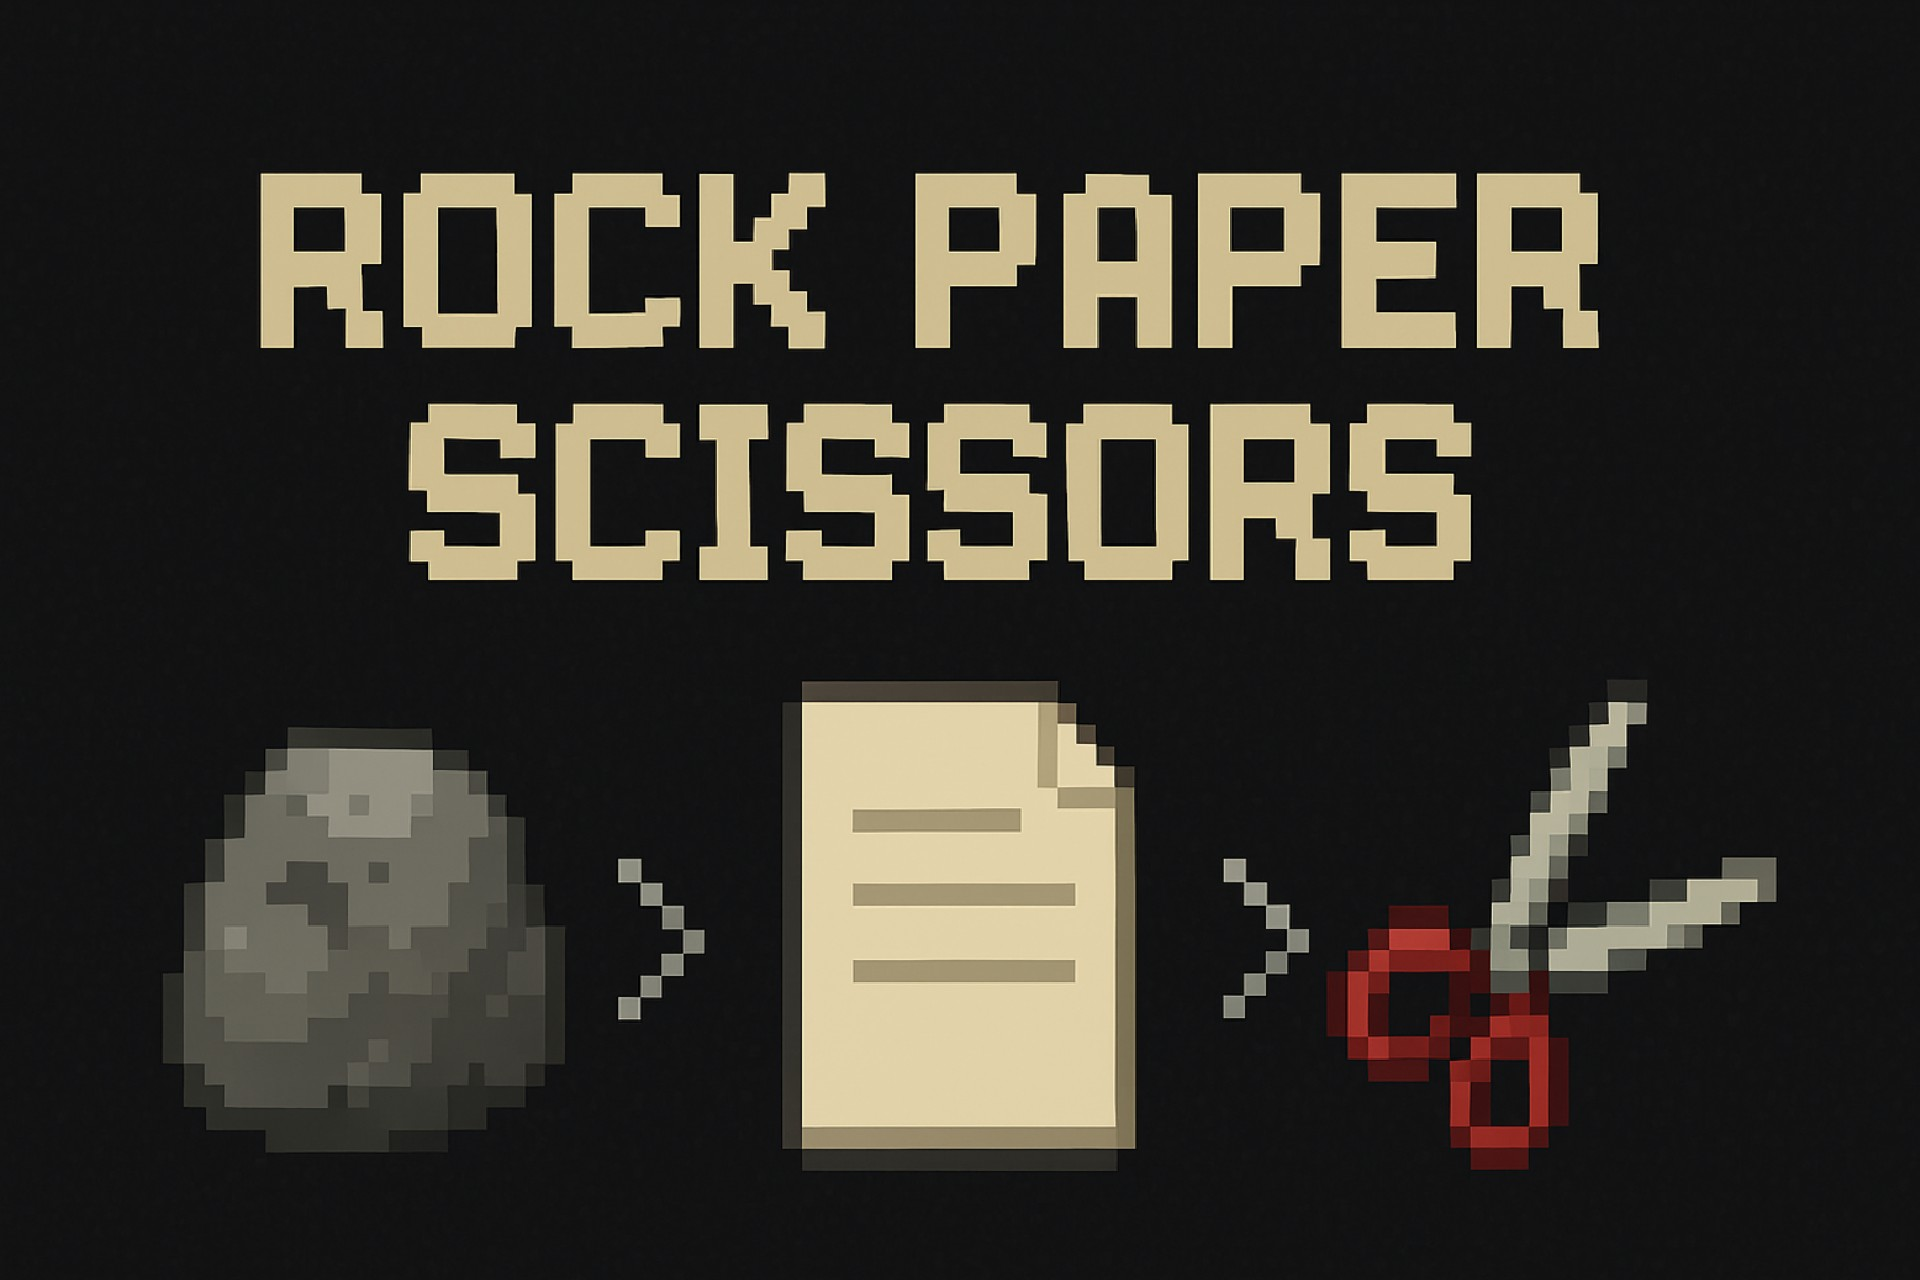
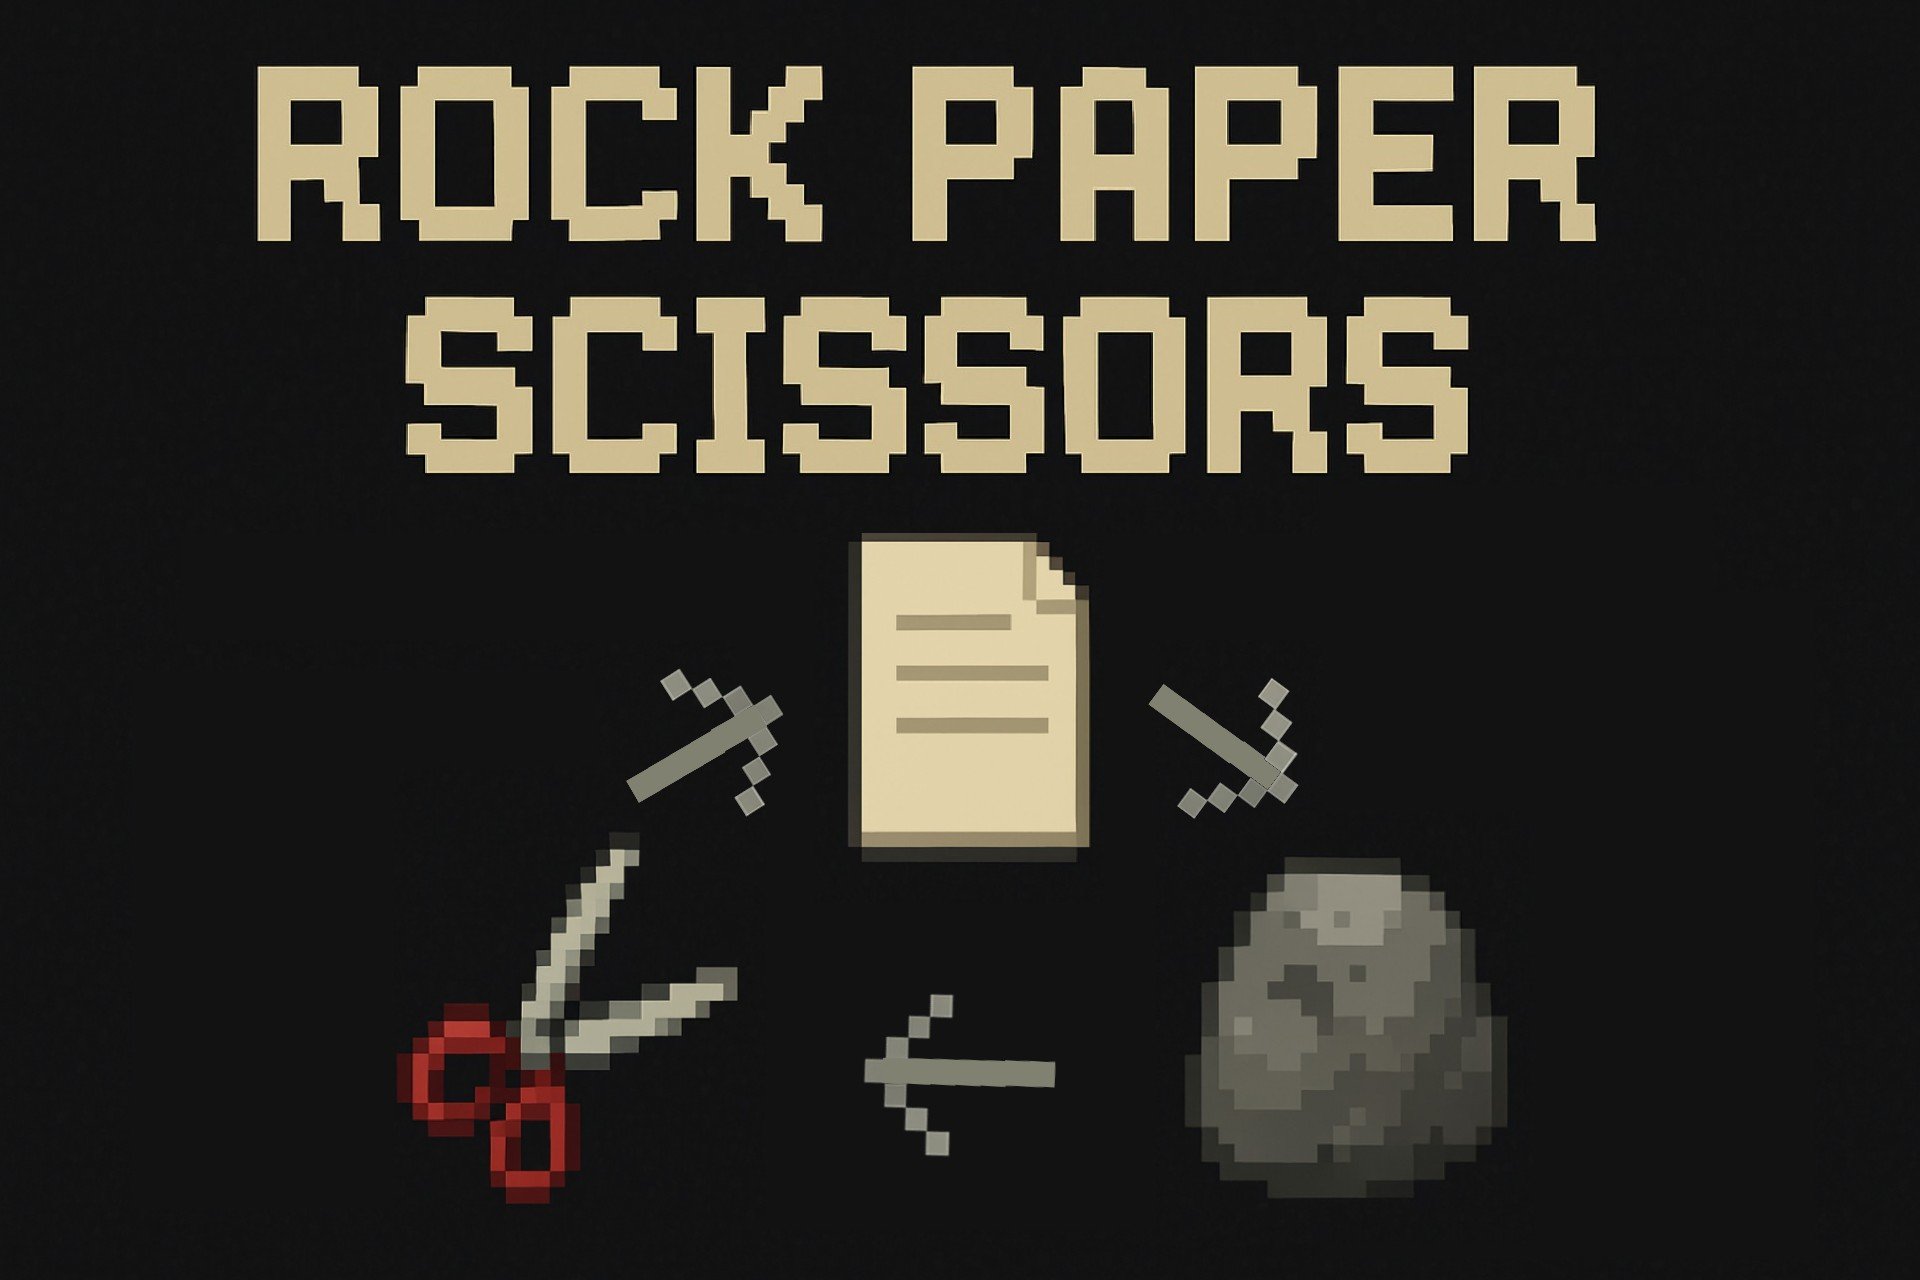
Bkg changes.

diff --git a/src/views/BoardView.ts b/src/views/BoardView.ts
@@ -1,18 +1,20 @@
 import { lego } from '@armathai/lego';
 import Matter from 'matter-js';
-import { Container, IPointData, Rectangle, Texture } from 'pixi.js';
+import { Container, Graphics, IPointData, Rectangle, Texture } from 'pixi.js';
 import { GAME_CONFIG, getBodyConfig, wallBodyConfig, winningCombos } from '../configs/constants';
 import { MainGameEvents } from '../events/MainEvents';
 import { BoardModelEvents, GameModelEvents, ItemModelEvents } from '../events/ModelEvents';
 import { GameState } from '../models/GameModel';
 import { ItemModel, ItemType } from '../models/ItemModel';
-import { delayRunnable } from '../Utils';
+import { delayRunnable, drawBounds, hide, show } from '../Utils';
 import { ItemView } from './ItemView';
 
 export class BoardView extends Container {
     private items: ItemView[] = [];
     private bodyToSprite: Map<any, ItemView> = new Map();
     private gameState: GameState = GameState.Unknown;
+
+    private boundsGr = new Graphics();
 
     constructor() {
         super();
@@ -22,6 +24,9 @@ export class BoardView extends Container {
             .on(GameModelEvents.StateUpdate, this.onGameStateUpdate, this)
             .on(BoardModelEvents.ItemsUpdate, this.onItemsUpdate, this);
         this.build();
+
+        this.boundsGr = drawBounds(this, 0x5832a8);
+        hide(this.boundsGr, true);
     }
 
     public getBounds(): Rectangle {
@@ -88,7 +93,7 @@ export class BoardView extends Container {
                     Matter.Composite.remove(window.gamePhysicsWorld, body);
                 }
                 this.bodyToSprite.clear();
-
+                hide(this.boundsGr);
                 break;
             case GameState.Game:
                 let i = 0;
@@ -101,8 +106,10 @@ export class BoardView extends Container {
                     });
                     i++;
                 }
+                show(this.boundsGr);
                 break;
             case GameState.Result:
+                hide(this.boundsGr);
                 break;
 
             default:

diff --git a/src/views/BackgroundView.ts b/src/views/BackgroundView.ts
@@ -1,9 +1,18 @@
+import { lego } from '@armathai/lego';
 import { ICellConfig, PixiGrid } from '@armathai/pixi-grid';
+import { Sprite } from 'pixi.js';
 import { getBackgroundGridConfig } from '../configs/gridConfigs/BackgroundViewGC';
+import { GameModelEvents } from '../events/ModelEvents';
+import { GameState } from '../models/GameModel';
+import { hide, show } from '../Utils';
 
 export class BackgroundView extends PixiGrid {
+    private bkg!: Sprite;
     constructor() {
         super();
+
+        lego.event.on(GameModelEvents.StateUpdate, this.onGameStateUpdate, this);
+
         this.build();
     }
 
@@ -16,7 +25,23 @@ export class BackgroundView extends PixiGrid {
     }
 
     private build(): void {
-        // const bkg = Sprite.from('bkg.jpg');
-        // this.setChild('background', bkg);
+        this.bkg = Sprite.from('bkg.jpg');
+        this.setChild('bkg', this.bkg);
+    }
+
+    private onGameStateUpdate(state: GameState): void {
+        switch (state) {
+            case GameState.Intro:
+                show(this.bkg);
+                break;
+            case GameState.Game:
+                hide(this.bkg);
+                break;
+            case GameState.Result:
+                hide(this.bkg);
+                break;
+            default:
+                break;
+        }
     }
 }

diff --git a/src/configs/gridConfigs/BackgroundViewGC.ts b/src/configs/gridConfigs/BackgroundViewGC.ts
@@ -1,4 +1,3 @@
-import { CellScale } from '@armathai/pixi-grid';
 import { lp } from '../../Utils';
 
 export const getBackgroundGridConfig = () => {
@@ -13,9 +12,8 @@ const getBackgroundGridLandscapeConfig = () => {
         bounds,
         cells: [
             {
-                name: 'background',
-                scale: CellScale.envelop,
-                bounds: { x: 0, y: 0, width: 1, height: 1 },
+                name: 'bkg',
+                bounds: { x: 0, y: 0, width: 1, height: 0.8 },
             },
         ],
     };
@@ -29,9 +27,8 @@ const getBackgroundGridPortraitConfig = () => {
         bounds,
         cells: [
             {
-                name: 'background',
-                scale: CellScale.envelop,
-                bounds: { x: 0, y: 0, width: 1, height: 1 },
+                name: 'bkg',
+                bounds: { x: 0, y: 0, width: 1, height: 0.8 },
             },
         ],
     };

diff --git a/src/configs/constants.ts b/src/configs/constants.ts
@@ -12,7 +12,7 @@ export const GAME_CONFIG = {
 
 export const getBodyConfig = (name: string) => {
     return {
-        restitution: 1.035,
+        restitution: 1.03,
         friction: 0,
         frictionAir: 0,
         label: name,
@@ -21,7 +21,7 @@ export const getBodyConfig = (name: string) => {
 
 export const wallBodyConfig = {
     isStatic: true,
-    restitution: 1.035,
+    restitution: 1.03,
     friction: 0,
 };
 

diff --git a/src/App.ts b/src/App.ts
@@ -18,7 +18,7 @@ class App extends Application {
 
     public constructor() {
         super({
-            backgroundColor: 0x000000,
+            backgroundColor: 0x121212,
             backgroundAlpha: 1,
             powerPreference: 'high-performance',
             antialias: true,
